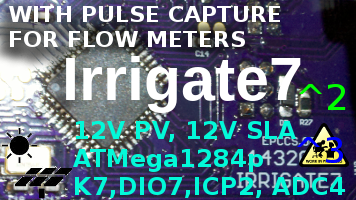
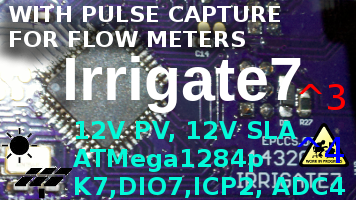
Hardware: ^3 has problem with via on some wires

Changed region(s): [[0.8343, 0.42, 0.9888, 0.57], [0.8961, 0.66, 0.9888, 0.84]]

diff --git a/lib/pin_num.h b/lib/pin_num.h
@@ -53,38 +53,38 @@ Wiring (e.g. Arduino) uses pin numbers to control their functions.
 This is wasteful, but teaching "DDRB |= _BV(PB5)" to set an LED pin as an output is not going to do.
 Make no mistake this is for the kids, but is also is for fun :-) */
 static const Pin_Map pinMap[NUM_DIGITAL_PINS] = {
-    [24] = { .ddr=&DDRA, .pin=&PINA, .port=&PORTA, .bit= PA0 }, // [board; ADC0 input on J4]
-    [25] = { .ddr=&DDRA, .pin=&PINA, .port=&PORTA, .bit= PA1 }, // [board; ADC1 input on J4]
-    [26] = { .ddr=&DDRA, .pin=&PINA, .port=&PORTA, .bit= PA2 }, // [board; ADC2 input on J4]
-    [27] = { .ddr=&DDRA, .pin=&PINA, .port=&PORTA, .bit= PA3 }, // [board; ADC3 input on J4]
-    [28] = { .ddr=&DDRA, .pin=&PINA, .port=&PORTA, .bit= PA4 }, // [board; ADC4 input on J4]
-    [29] = { .ddr=&DDRA, .pin=&PINA, .port=&PORTA, .bit= PA5 }, // [board; boost converter * .053]
-    [30] = { .ddr=&DDRA, .pin=&PINA, .port=&PORTA, .bit= PA6 }, // [board; solar input voltage * .188]
-    [31] = { .ddr=&DDRA, .pin=&PINA, .port=&PORTA, .bit= PA7 }, // [board; battery voltage * .667]
-    [4] = { .ddr=&DDRB, .pin=&PINB, .port=&PORTB, .bit= PB0 }, // [board; IO4]
-    [23] = { .ddr=&DDRB, .pin=&PINB, .port=&PORTB, .bit= PB1 }, // T1 [board; IO23]
-    [22] = { .ddr=&DDRB, .pin=&PINB, .port=&PORTB, .bit= PB2 }, // INT2 [board; IO22]
-    [6] = { .ddr=&DDRB, .pin=&PINB, .port=&PORTB, .bit= PB3 }, // OC0A [board; IO6]
-    [5] = { .ddr=&DDRB, .pin=&PINB, .port=&PORTB, .bit= PB4 }, // OC0B/!SS [board; IO5]
-    [14] = { .ddr=&DDRB, .pin=&PINB, .port=&PORTB, .bit= PB5 }, // ICP3/MOSI [board; IO14]
-    [12] = { .ddr=&DDRB, .pin=&PINB, .port=&PORTB, .bit= PB6 }, // OC3A/MISO [board; IO12]
-    [13] = { .ddr=&DDRB, .pin=&PINB, .port=&PORTB, .bit= PB7 }, // OC3B/SCK [board; IO13]
-    [21] = { .ddr=&DDRC, .pin=&PINC, .port=&PORTC, .bit= PC0 }, // SCL [board: IO21]
-    [20] = { .ddr=&DDRC, .pin=&PINC, .port=&PORTC, .bit= PC1 }, // SDA [boad: IO20]
-    [19] = { .ddr=&DDRC, .pin=&PINC, .port=&PORTC, .bit= PC2 }, // TCK [board; IO19]
-    [18] = { .ddr=&DDRC, .pin=&PINC, .port=&PORTC, .bit= PC3 }, // TMS [board; IO18]
-    [17] = { .ddr=&DDRC, .pin=&PINC, .port=&PORTC, .bit= PC4 }, // TDO [board; IO17]
-    [16] = { .ddr=&DDRC, .pin=&PINC, .port=&PORTC, .bit= PC5 }, // TDI [board; IO16]
-    [15] = { .ddr=&DDRC, .pin=&PINC, .port=&PORTC, .bit= PC6 }, // [board; IO15]
-    [7] = { .ddr=&DDRC, .pin=&PINC, .port=&PORTC, .bit= PC7 }, // [board; IO7]
-    [0] = { .ddr=&DDRD, .pin=&PIND, .port=&PORTD, .bit= PD0 }, // RX0 [board; IO0]
-    [1] = { .ddr=&DDRD, .pin=&PIND, .port=&PORTD, .bit= PD1 }, // TX0 [board; IO1]
-    [2] = { .ddr=&DDRD, .pin=&PIND, .port=&PORTD, .bit= PD2 }, // RX1/INT0 [board; IO2]
-    [3] = { .ddr=&DDRD, .pin=&PIND, .port=&PORTD, .bit= PD3 }, // TX0/INT1 [board; IO3]
-    [10] = { .ddr=&DDRD, .pin=&PIND, .port=&PORTD, .bit= PD4 }, // OC1B [board; IO10]
-    [9] = { .ddr=&DDRD, .pin=&PIND, .port=&PORTD, .bit= PD5 }, // OC1A [board; IO9]
-    [8] = { .ddr=&DDRD, .pin=&PIND, .port=&PORTD, .bit= PD6 }, // ICP1 [board; IO8]
-    [11] = { .ddr=&DDRD, .pin=&PIND, .port=&PORTD, .bit= PD7 } // OC2A [board; IO11]
+    [24] = { .ddr=&DDRA, .pin=&PINA, .port=&PORTA, .bit= PA0 }, // [ADC0]
+    [25] = { .ddr=&DDRA, .pin=&PINA, .port=&PORTA, .bit= PA1 }, // [ADC1]
+    [26] = { .ddr=&DDRA, .pin=&PINA, .port=&PORTA, .bit= PA2 }, // [CHRG_I]
+    [27] = { .ddr=&DDRA, .pin=&PINA, .port=&PORTA, .bit= PA3 }, // [DISCHRG_I]
+    [28] = { .ddr=&DDRA, .pin=&PINA, .port=&PORTA, .bit= PA4 }, // [ADC4]
+    [29] = { .ddr=&DDRA, .pin=&PINA, .port=&PORTA, .bit= PA5 }, // [ADC5]
+    [30] = { .ddr=&DDRA, .pin=&PINA, .port=&PORTA, .bit= PA6 }, // [PV_V]
+    [31] = { .ddr=&DDRA, .pin=&PINA, .port=&PORTA, .bit= PA7 }, // [PWR_V]
+    [4] = { .ddr=&DDRB, .pin=&PINB, .port=&PORTB, .bit= PB0 }, // [IO4]
+    [23] = { .ddr=&DDRB, .pin=&PINB, .port=&PORTB, .bit= PB1 }, // T1 [IO23]
+    [22] = { .ddr=&DDRB, .pin=&PINB, .port=&PORTB, .bit= PB2 }, // INT2 [IO22]
+    [6] = { .ddr=&DDRB, .pin=&PINB, .port=&PORTB, .bit= PB3 }, // OC0A [IO6]
+    [5] = { .ddr=&DDRB, .pin=&PINB, .port=&PORTB, .bit= PB4 }, // OC0B/nSS [IO5]
+    [14] = { .ddr=&DDRB, .pin=&PINB, .port=&PORTB, .bit= PB5 }, // ICP3/MOSI [IO14]
+    [12] = { .ddr=&DDRB, .pin=&PINB, .port=&PORTB, .bit= PB6 }, // OC3A/MISO [IO12]
+    [13] = { .ddr=&DDRB, .pin=&PINB, .port=&PORTB, .bit= PB7 }, // OC3B/SCK [IO13]
+    [21] = { .ddr=&DDRC, .pin=&PINC, .port=&PORTC, .bit= PC0 }, // SCL [IO21]
+    [20] = { .ddr=&DDRC, .pin=&PINC, .port=&PORTC, .bit= PC1 }, // SDA [IO20]
+    [19] = { .ddr=&DDRC, .pin=&PINC, .port=&PORTC, .bit= PC2 }, // TCK [IO19]
+    [18] = { .ddr=&DDRC, .pin=&PINC, .port=&PORTC, .bit= PC3 }, // TMS [IO18]
+    [17] = { .ddr=&DDRC, .pin=&PINC, .port=&PORTC, .bit= PC4 }, // TDO [IO17]
+    [16] = { .ddr=&DDRC, .pin=&PINC, .port=&PORTC, .bit= PC5 }, // TDI [IO16]
+    [15] = { .ddr=&DDRC, .pin=&PINC, .port=&PORTC, .bit= PC6 }, // [IO15]
+    [7] = { .ddr=&DDRC, .pin=&PINC, .port=&PORTC, .bit= PC7 }, // [IO7]
+    [0] = { .ddr=&DDRD, .pin=&PIND, .port=&PORTD, .bit= PD0 }, // RX0 [IO0]
+    [1] = { .ddr=&DDRD, .pin=&PIND, .port=&PORTD, .bit= PD1 }, // TX0 [IO1]
+    [2] = { .ddr=&DDRD, .pin=&PIND, .port=&PORTD, .bit= PD2 }, // RX1/INT0 [IO2]
+    [3] = { .ddr=&DDRD, .pin=&PIND, .port=&PORTD, .bit= PD3 }, // TX0/INT1 [IO3]
+    [10] = { .ddr=&DDRD, .pin=&PIND, .port=&PORTD, .bit= PD4 }, // OC1B [IO10]
+    [9] = { .ddr=&DDRD, .pin=&PIND, .port=&PORTD, .bit= PD5 }, // OC1A [IO9]
+    [8] = { .ddr=&DDRD, .pin=&PIND, .port=&PORTD, .bit= PD6 }, // ICP1 [IO8]
+    [11] = { .ddr=&DDRD, .pin=&PIND, .port=&PORTD, .bit= PD7 } // OC2A [IO11]
 };
 #else
     #error Pin Map for MCU not available

diff --git a/SelfTest/main.c b/SelfTest/main.c
@@ -33,7 +33,7 @@ along with the Arduino DigitalIO Library.  If not, see
 
 // Save the Value of the References for ADC converter 
 // measure AVCC and put it hear in uV e.g. 5.00V is 5000000UL
-#define REF_EXTERN_AVCC 4995900UL
+#define REF_EXTERN_AVCC 4961200UL
 // I am not sure how to measure the 1V1 bandgap, this is just a holding place
 #define REF_INTERN_1V1 1100000UL
 
@@ -234,7 +234,7 @@ void test(void)
     if (!digitalRead(ICP3)) 
     { 
         passing = 0; 
-        printf_P(PSTR(">>> ICP3 should be high.\r\n"));
+        printf_P(PSTR(">>> ICP3 should be high (note an RPUpi pulls down on MOSI).\r\n"));
     }
     
     // CC nFAULT with weak pull-up

diff --git a/Hardware/Testing/readme.md b/Hardware/Testing/readme.md
@@ -63,11 +63,11 @@ Apply a current limited (20mA) supply to the PV input with reverse polarity and 
 
 ## TPS3700 Window Comparator 
 
-Apply a current limited (30mA) supply starting at 12V to the +BAT and -BAT connector. Connect 1k ohm between U2 pin 1 and pin 2 to give the VIN latch a load. Short J22 pin 2 and pin 3, then release the short, which will force the battery to connect. Check that PWR has been latched to the battery with TP4 and that the VIN latch has not set with U2 pin 1. Increase the supply slowly until VIN on U2 pin 1 has power, but no more than 14V. This is the voltage at which the load connects, and should be about 13.1V. Now slowly reduce the supply until the LED turns off. This is the voltage at which the battery disconnects and should be about 11.58V.
+Connect 1k ohm between U2 pin 1 and pin 2 to give the VIN latch a load. Apply a current limited (30mA) supply starting at 12V to the +BAT and -BAT connector. Short J22 pin 2 and pin 3, then release the short, which will force the battery to connect. Check that PWR has been latched to the battery with TP4 and that the VIN latch has not set with U2 pin 1. Increase the supply slowly until VIN on U2 pin 1 has power, but no more than 14V. This is the voltage at which the load connects, and should be about 13.1V. Now slowly reduce the supply until the LED turns off. This is the voltage at which the battery disconnects and should be about 11.58V.
 
 ```
-{ "LOAD_CONNNECT":[13.03,],
-  "DISCONNECT":[11.47,] }
+{ "LOAD_CONNNECT":[13.03,12.94,],
+  "DISCONNECT":[11.47,11.40,] }
 ```
 
 
@@ -78,7 +78,8 @@ Connect 100 kOhm resistor to both the PV side and BAT side thermistor inputs to 
 NOTE: the LT3652 goes into fault when started into my HP6050A in CC mode, which is by design. I can start the LT3652 with the load off, or in CV mode and then switch to CC. This note is to remind me that it is an expected behavior.
 
 ```
-{ "VIN@100K":[13.60,] }
+{ "VIN@100K":[13.60,13.65,],
+  "VIN@OPEN":[14.35,]}
 ```
 
 
@@ -87,8 +88,8 @@ NOTE: the LT3652 goes into fault when started into my HP6050A in CC mode, which 
 Connect 100 kOhm resistor to both the PV side and BAT side thermistor inputs to simulate room temperature. Connect an electronic load to the +BAT and -BAT. Connect 1k ohm between U2 pin 1 and pin 2 to give the VIN latch a small load. Set the electronic load voltage to 12.8V to simulate a battery. Connect +PV and -PV to a CC/CV mode supply with CC set at 50mA and  CV set at 0V. Apply power and increase the CV setting to 21V. Verify the solar power point voltage is about 16.9V, increase the supply current CC to 150mA and measure the power point voltage. Next increase the supply CC setting until its voltage increases to 21V, e.g. the supply changes from CC to CV mode, and check that the charge controller is current limiting at about 1.3A with 0R068 placed on R3, also check if U1 (LT3652) is getting hot. Note that the voltage at UUT is higher than at the load because the wires drop some voltage (the load is still running at the 12.8V). 
 
 ```
-{ "PP100K@150mA&amp;12V8":[16.89,],
-  "CURR_LIMIT":[1.33] }
+{ "PP100K@150mA&amp;12V8":[16.89,16.86,],
+  "CURR_LIMIT":[1.33,1.30,] }
 ```
 
 
@@ -97,7 +98,7 @@ Connect 100 kOhm resistor to both the PV side and BAT side thermistor inputs to 
 Apply a 30mA current limited 5V source to +5V (J10 pin 4 and pin 3). Check that the input current is for a blank MCU (e.g. less than 5mA). Turn off the power.
 
 ```
-{ "I_IN_BLANKMCU_mA":[3.6,]}
+{ "I_IN_BLANKMCU_mA":[3.6,2.5,]}
 ```
 
 Note if the fuse need set back to the factory (OEM) values there is a make rule, but VIN needs to be jumperd to +5V for the ICSP tool to work (the ESD_NODE needs bias for SCK on the tool to work).
@@ -110,7 +111,7 @@ Setup a current limited supply with 5V and about 30mA limit. Connect the supply 
 C106 (2200uF) is not on board, it is mounted in the plugable connector between BOOST (J10 pin 1) and 0V (J10 pin 3).
 
 ``` 
-{"BOOST_DISABLED_mA":[0.2,,] }
+{"BOOST_DISABLED_mA":[0.2,0.01,] }
 ``` 
 
 
@@ -119,7 +120,7 @@ C106 (2200uF) is not on board, it is mounted in the plugable connector between B
 Add U2 to the board now. Also jumper VIN on U2 pin 1 to +5V to bias the EDS_NODE. Apply a 60mA current limited 5V source to +5V (J10 pin 4 and pin 3). Measure the input current for referance (it takes time to settle, both 10mA ICP1 and ICP3 jumper is off).
 
 ```
-{ "I_IN_BLANKMCU_WITH_U2_mA":[5.4,]}
+{ "I_IN_BLANKMCU_WITH_U2_mA":[5.4,5.5,]}
 ```
 
 Install Git and AVR toolchain on Ubuntu (16.04, on an old computer try https://wiki.ubuntu.com/Lubuntu). 
@@ -174,13 +175,14 @@ Use picocom to set the bootload address on the RPUftdi shield. The RPUftdi is at
 picocom -b 38400 /dev/ttyUSB0
 ...
 Terminal ready
-/0/address 41
+/0/iaddr 41
 {"address":"0x29"}
-/0/buffer 3,49
+/0/ibuff 3,49
 {"txBuffer":[{"data":"0x3"},{"data":"0x31"}]}
-/0/read? 2
+/0/iread? 2
 {"rxBuffer":[{"data":"0x3"},{"data":"0x31"}]}
 ```
+
 Exit picocom (Cntl^a and Cntl^x). Plug an [RPUadpt] shield with [Remote] firmware onto the UUT board. Note the RPUadpt address defaults to 0x31 when its firmware was installed.
 
 [RPUadpt]: https://github.com/epccs/RPUadpt
@@ -195,7 +197,7 @@ Once the UUT connects power (battery charged to > 13.1V) check that the VIN pin 
 Measure the +5V supply at J7 pin 6 and pin 5.
 
 ```
-{ "+5V":[4.9959,] }
+{ "+5V":[4.9959,4.9612,] }
 ```
 
 Edit the SelfTest main.c such that "#define REF_EXTERN_AVCC 4995900UL" has the correct value for the UUT. Next, run the bootload rule in the Makefile to upload the self-test firmware to the UUT that the remote shield is mounted on.
@@ -281,9 +283,9 @@ Before truning off the PV power check that the VIN pin on the shield has no powe
 Run the SelfTest for each of the three voltage settings and measure the value with a DMM.
 
 ```
-{ "9VBOOSTLD_V":[9.2,],
-"12VBOOST_V":[12.2,],
-"24VBOOST_V":[24.1,]}
+{ "9VBOOSTLD_V":[9.2,9.1,],
+"12VBOOST_V":[12.2,12.1,],
+"24VBOOST_V":[24.1,24.1,]}
 ```
 
 ## Solenoid Test

diff --git a/Hardware/README.md b/Hardware/README.md
@@ -55,19 +55,19 @@ Bootloader options include [optiboot] and [xboot]. Uploading through a bootloade
 ![Status](./status_icon.png "Irrigate7 Status")
 
 ```
-        ^3  Done: Design, Layout, BOM, Review*, 
-            WIP: Order Boards,
-            Todo: Assembly, Testing, Evaluation.
+        ^4  Done: 
+            WIP: Design, 
+            Todo: Layout, BOM, Review*, Order Boards, Assembly, Testing, Evaluation.
             *during review the Design may change without changing the revision.
-            Move J9 (conn for K7) out some so the shield can clear it.
-            Move L2 to bottom. 
-            Remove R17 and R18. 
-            visable lables for R15, R42, C3.
-            LED for boost test current should probably be through hole
-            Space Q159 from Q158 to reduce solder bridges.
-            Space Q164 from Q165 to reduce solder bridges.
-            Space Q156 from Q157 to reduce solder bridges.
+            Via was placed on wires for nSHDN and battery polarity protection
+            Test Points
+
+        ^3  Done: Design, Layout, BOM, Review*, Order Boards, Assembly, Testing, 
+            WIP: Evaluation.
+            Todo: 
+            *during review the Design may change without changing the revision.
             Pull up IO9 so it is not floating at power up.
+            location: 2017-7-26 Storage (it may be used for Evaluation).
 
         ^2  Done: Design, Layout, BOM, Review*, Order Boards, Assembly, Testing,
             WIP: Evaluation.

diff --git a/Hardware/Evaluation/readme.md b/Hardware/Evaluation/readme.md
@@ -7,6 +7,7 @@ This shows the setup and method used for evaluation of Irrigate7.
 
 # Table Of Contents:
 
+8. ^3 CL8 Interface
 7. ^2 Crystal Check
 6. ^2 RS422 Shield
 5. ^2 Lifting DIN Mount
@@ -14,6 +15,13 @@ This shows the setup and method used for evaluation of Irrigate7.
 3. ^1 CCtest
 2. ^1 With RPUftdi^2
 1. ^0A LT3652 Timer
+
+
+## ^3 CL8 Interface
+
+The IDE connector just fits, though there is interference with the shield. I can make the board larger but that will cost more, I think this will do.
+
+![Irrigate7^3 CL8 Interface](./Irrigat7^3,WithCL8Interface.jpg "Irrigate7^3 CL8 Interface")
 
 
 ## ^2 Crystal Check
@@ -24,6 +32,7 @@ The crystal has 27pF crystal capacitors which combine with the board's parasitic
 ![Irrigate7^2 Crystal Check On DSO](./Irrigat7^2,CrystalCheckOnDSO.jpg "Irrigate7^2 Crystal Check On DSO")
 
 Previous versions had a different crystal that needed less capacitance (which unfortunately got copied onto other boards).
+
 
 ## ^2 RS422 Shield
 

diff --git a/Hardware/Schooling/readme.md b/Hardware/Schooling/readme.md
@@ -4,6 +4,7 @@ Some lessons I learned doing Irrigate7.
 
 # Table Of Contents:
 
+10. ^3 Via on Wires
 9. ^2 Digital IO Protection Resistor
 8. ^2 Pull Up IO9
 7. ^1 RPUno
@@ -13,6 +14,13 @@ Some lessons I learned doing Irrigate7.
 3. ^0 C1 Bypass Moved to LT3652 VIN
 2. ^0 LMV358 Does Not have 5V Befor Battery Connect
 1. ^0 C11 Interference with HW1 (DIN mount)
+
+
+## ^3 Via on Wires
+
+How are my going to explain this to the boss? I even remember seeing the via while doing cleanup to the layout, something distracted me I guess.
+
+![Irrigate7^3 Via Opps](./14320^3,ViaOnWires.png "Irrigate7^3 Via Opps")
 
 
 ## ^2 Digital IO Protection Resistor
